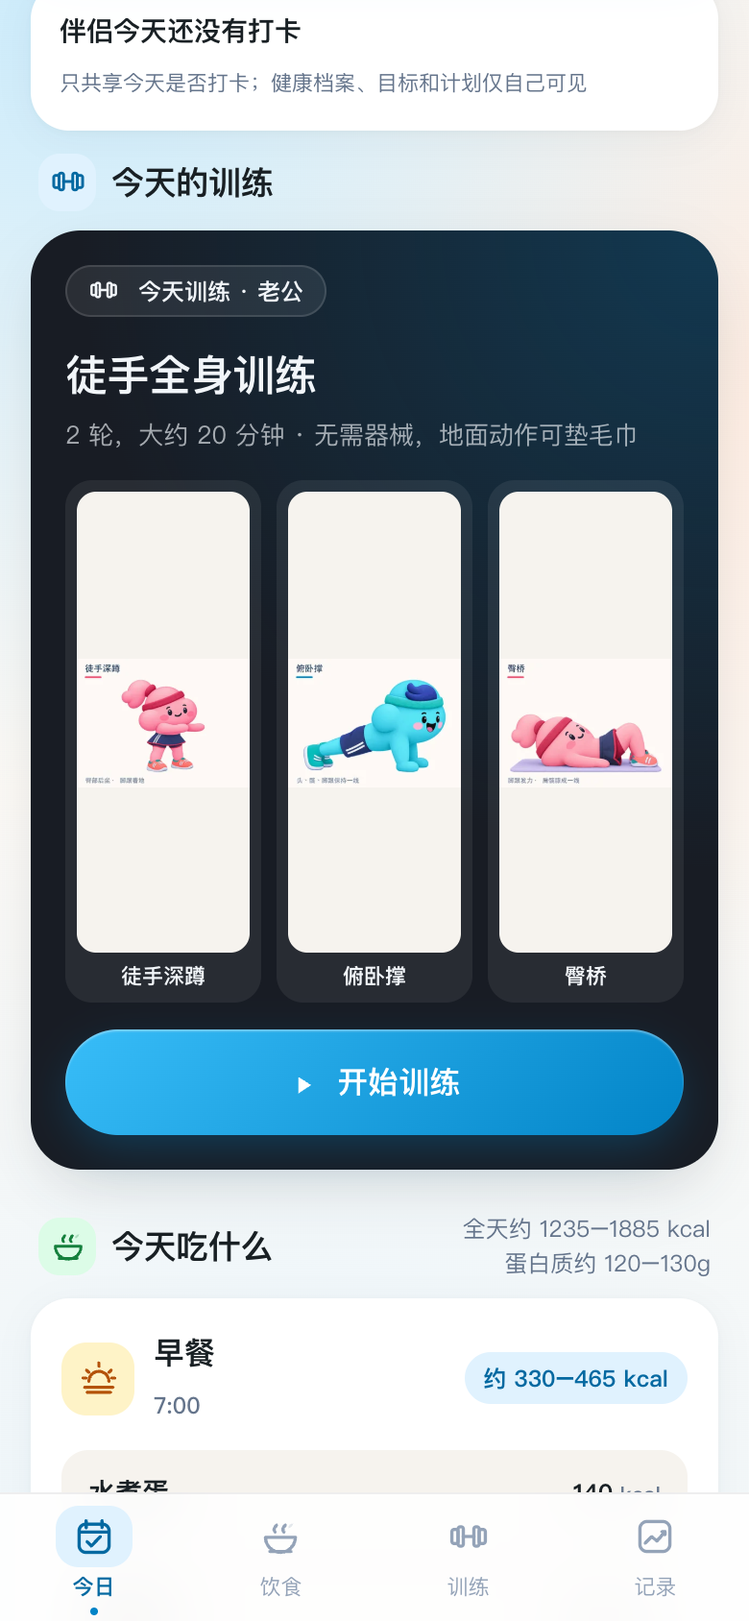
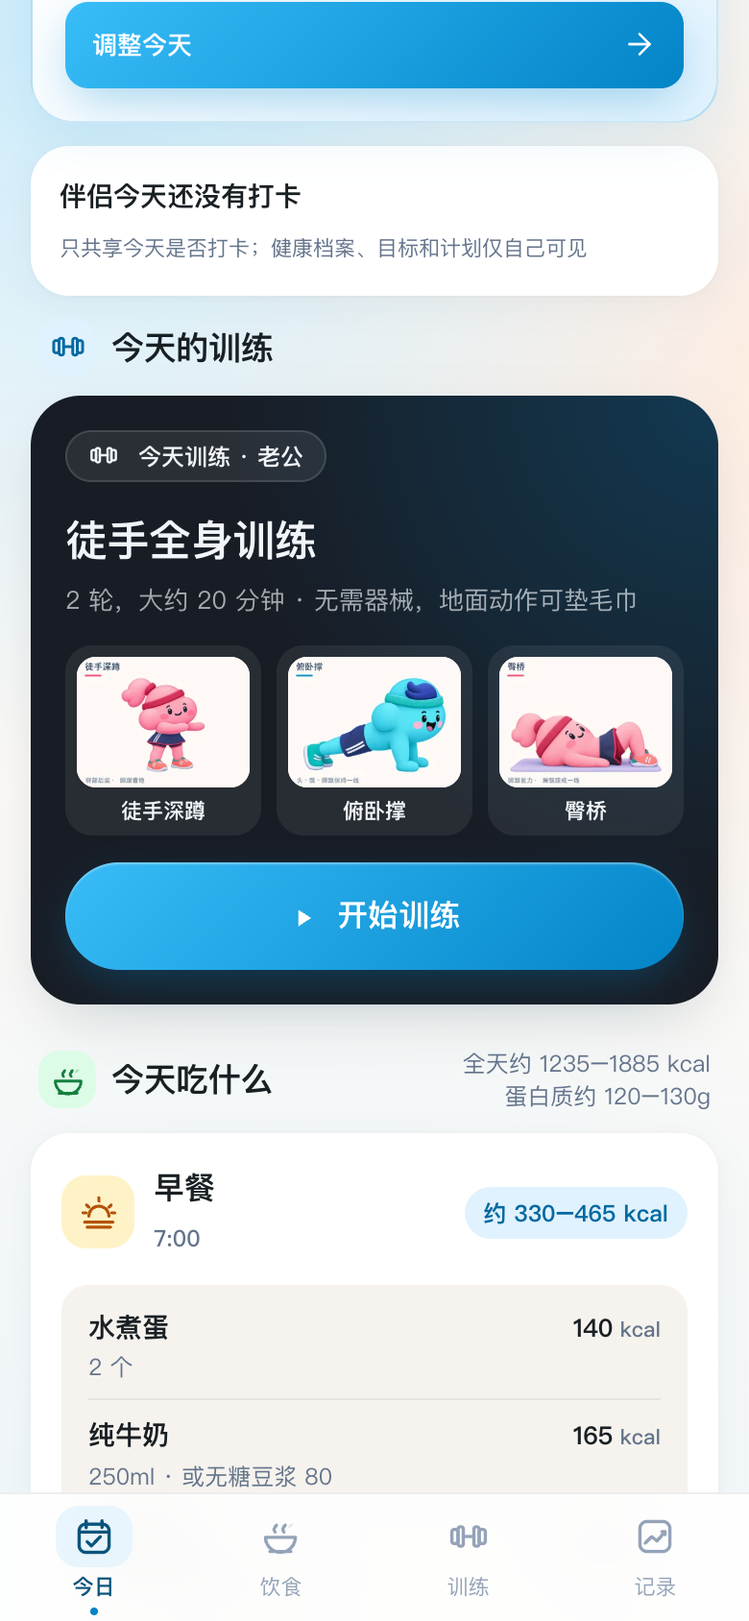
Show entry before home and fix mobile movement preview sizing

diff --git a/index.html b/index.html
@@ -68,6 +68,9 @@ html{height:100%;-webkit-text-size-adjust:100%;text-size-adjust:100%;scroll-padd
 body{margin:0;min-height:100%;background:var(--mesh),var(--bg);background-attachment:fixed;color:var(--ink);
   font-family:"PingFang SC","Hiragino Sans GB","Noto Sans SC","Microsoft YaHei",system-ui,-apple-system,sans-serif;
   font-size:15px;line-height:1.6;-webkit-font-smoothing:antialiased;-webkit-tap-highlight-color:transparent}
+/* Keep the app hidden until the initial entry flow is ready, including before scripts load. */
+body.booting{overflow:hidden}
+body.booting > #appShell,body.booting > #appTabs{visibility:hidden}
 button{font:inherit;color:inherit;cursor:pointer;transition:background-color .2s,color .2s,box-shadow .2s,transform .1s}
 button:active{transform:scale(.97)}
 button:focus-visible,input:focus-visible{outline:3px solid color-mix(in srgb,var(--me) 45%,transparent);outline-offset:2px}
@@ -258,7 +261,8 @@ p{margin:0}
 .obs .moves-chips span em{font-style:normal;color:rgba(241,245,249,.6);margin-left:4px}
 .today-move-preview{display:grid;grid-template-columns:repeat(3,minmax(0,1fr));gap:8px;margin:14px 0}
 .today-move-preview .item{min-width:0;border-radius:14px;background:rgba(255,255,255,.07);padding:6px;text-align:center}
-.today-move-preview img{display:block;width:100%;aspect-ratio:4/3;object-fit:contain;border-radius:10px;background:var(--sunk)}
+.today-move-preview picture{display:block;width:100%;aspect-ratio:4/3;overflow:hidden;border-radius:10px}
+.today-move-preview img{display:block;width:100%;height:auto;aspect-ratio:4/3;object-fit:contain;border-radius:10px;background:var(--sunk)}
 .today-move-preview b{display:block;margin-top:5px;font-size:11px;line-height:1.3;overflow-wrap:anywhere}
 .cta{width:100%;border:0;border-radius:999px;padding:15px;font-size:16px;font-weight:800;color:#fff;background:var(--me-grad);box-shadow:var(--me-glow),inset 0 1px 1px rgba(255,255,255,.35)}
 .obs .cta.done{background:rgba(255,255,255,.1);box-shadow:inset 0 0 0 1px rgba(255,255,255,.15);color:rgba(241,245,249,.8)}
@@ -654,6 +658,7 @@ p{margin:0}
 .rrest .mood{width:88px;height:88px;object-fit:contain;display:block;margin:0 auto 6px}
 .obs .ol li.has-art{grid-template-columns:76px minmax(0,1fr) auto}
 .obs .ol .art{position:relative;width:76px;height:57px;border-radius:10px;overflow:hidden;background:var(--sunk);flex:none}
+.obs .ol .art picture,.desk .art picture{display:block;width:100%;height:100%}
 .obs .ol .art img{width:100%;height:100%;object-fit:contain;display:block}
 .obs .ol .art .n{position:absolute;left:4px;bottom:4px;width:20px;height:20px;font-size:11px;background:rgba(24,28,36,.72);color:#fff}
 .desk .art{width:100%;aspect-ratio:4/3;border-radius:10px;overflow:hidden;background:var(--sunk);margin-bottom:6px}
@@ -671,9 +676,9 @@ p{margin:0}
 @media (prefers-reduced-motion: reduce){ .react{transition:none} }
 @media (prefers-reduced-motion: reduce){ *{transition:none!important} }
 </style>
-<link rel="stylesheet" href="private-coach.css?v=30">
+<link rel="stylesheet" href="private-coach.css?v=31">
 </head>
-<body class="me-hus">
+<body class="me-hus booting">
 <svg class="icon-sprite" xmlns="http://www.w3.org/2000/svg" aria-hidden="true"><defs>
   <symbol id="ic-today" viewBox="0 0 24 24"><rect x="3.5" y="5" width="17" height="16" rx="3.8"/><path d="M7.5 3v4M16.5 3v4M3.5 9.5h17M8 15l2.4 2.4 5.2-5.3"/></symbol>
   <symbol id="ic-diet" viewBox="0 0 24 24"><path d="M3.5 12.5h17a8.5 8.5 0 0 1-17 0ZM6 20.5h12M9 9.5c-1.3-1.5-.2-2.7.8-4M14 9.5c-1.3-1.5-.2-2.7.8-4"/><path d="M16.4 7.3c1.6-.2 2.6-1.2 2.9-2.7-1.7.1-2.7.9-2.9 2.7Z" fill="currentColor" stroke="none" opacity=".25"/></symbol>
@@ -708,7 +713,7 @@ p{margin:0}
   <symbol id="ic-bulb" viewBox="0 0 24 24"><path d="M8.5 17c-.3-1.5-1.1-2.1-2-3.3A6 6 0 1 1 17.5 14c-.9 1.1-1.7 1.6-2 3H8.5ZM9 20h6M10 22h4"/></symbol>
   <symbol id="ic-cloud" viewBox="0 0 24 24"><path d="M6.7 18.5a4.2 4.2 0 0 1-.5-8.3 6.3 6.3 0 0 1 12-.1 4.2 4.2 0 0 1-.7 8.4H6.7Z"/></symbol>
 </defs></svg>
-<div class="wrap">
+<div class="wrap" id="appShell" inert>
   <header class="top">
     <span class="tile" id="pageIcon" aria-hidden="true"></span><div class="title"><h1 id="pageTitle">今日</h1><div class="date" id="dateLabel"></div></div>
     <button class="role" data-open-picker aria-label="切换身份，当前是老公" id="roleBtn"><span class="r hus">老公</span><span class="sw">⇄</span><span class="r wife">老婆</span></button>
@@ -718,7 +723,7 @@ p{margin:0}
   <main id="view"></main>
 </div>
 
-<div class="tabs"><nav>
+<div class="tabs" id="appTabs" inert><nav>
   <button data-tab="today" aria-current="page"><span class="tab-icon"><svg class="ui-icon" viewBox="0 0 24 24" aria-hidden="true"><use href="#ic-today"/></svg></span>今日</button>
   <button data-tab="diet"><span class="tab-icon"><svg class="ui-icon" viewBox="0 0 24 24" aria-hidden="true"><use href="#ic-diet"/></svg></span>饮食</button>
   <button data-tab="train"><span class="tab-icon"><svg class="ui-icon" viewBox="0 0 24 24" aria-hidden="true"><use href="#ic-train"/></svg></span>训练</button>
@@ -729,7 +734,7 @@ p{margin:0}
 <div class="toast" id="toast" role="status"></div>
 <div class="react" id="react" role="status" aria-live="polite"></div>
 <!-- 首次进入 / 切换身份：两个云朵从远处跑近、会合，再弹出角色选择（设计见 UIset/login-motion） -->
-<div class="pick lm-pick" id="pick" role="dialog" aria-modal="true" aria-labelledby="pickTitle"><div class="lm" id="lm" data-phase="choose">
+<div class="pick lm-pick open" id="pick" role="dialog" aria-modal="true" aria-labelledby="pickTitle"><div class="lm splash" id="lm" data-phase="start">
   <div class="lm-grain" aria-hidden="true"></div>
   <div class="lm-top"><button class="lm-skip" data-lm-skip type="button">跳过</button></div>
   <img class="lm-wordmark" src="assets/brand/duofit-wordmark.svg" alt="DuoFit">
@@ -742,7 +747,7 @@ p{margin:0}
     <div class="lm-spark"></div>
   </div>
   <div class="lm-line">每一步，都有人和你一起</div>
-  <section class="lm-choice" id="lmChoice">
+  <section class="lm-choice" id="lmChoice" inert aria-hidden="true">
     <span class="lm-eyebrow">START TOGETHER</span>
     <h2 id="pickTitle">你是谁？</h2>
     <p class="lm-lead">选好角色，健康伙伴会带你用 4 步定好目标和计划。</p>
@@ -804,7 +809,7 @@ p{margin:0}
 </div></div>
 
 <script src="config.js"></script>
-<script src="private-coach.js?v=30"></script>
+<script src="private-coach.js?v=31"></script>
 <script>
 /* Supabase 配置写在同目录的 config.js 里，这个文件以后可以直接整个替换 */
 const SUPABASE_URL = String((window.FATLOSS_CONFIG||{}).SUPABASE_URL||"").trim();
@@ -1372,6 +1377,18 @@ let tab = "today";
 const LS_FAMILY="fatloss.family"; let LS_DIRTY="fatloss.dirty";
 const CLOUD = !!(SUPABASE_URL && SUPABASE_KEY);
 let privateCoach=null, coachReady=Promise.resolve();
+let startupPending=false, startupSyncReason=null;
+function finishStartup(home=false){
+  if(!startupPending)return;
+  startupPending=false;
+  if(home){lastTab=null;render();}
+  document.body.classList.remove("booting");
+  $("#appShell").inert=false;$("#appTabs").inert=false;
+  const reason=startupSyncReason;startupSyncReason=null;
+  if(reason)setTimeout(()=>sync(reason),500);
+  // Worker installation fetches the app shell; keep it out of the entry animation.
+  if("serviceWorker" in navigator && location.protocol==="https:")setTimeout(()=>navigator.serviceWorker.register("sw.js").catch(()=>{}),800);
+}
 let family = (()=>{ try{ return localStorage.getItem(LS_FAMILY)||""; }catch(e){ return ""; } })();
 /* 旧邀请链接曾把口令放在 URL 中；清掉片段，不再自动保存口令。 */
 if(/^#k=/.test(location.hash)) history.replaceState(null,"",location.pathname+location.search);
@@ -1402,6 +1419,7 @@ async function rpc(fn,args){
 
 let syncing=false, syncAgain=false;
 async function sync(reason="change"){
+  if(startupPending){startupSyncReason=reason;return;}
   if(privateCoach)return privateCoach.sync(store,dirty,reason);
   if(!CLOUD || !family) return;
   if(syncing){ syncAgain=true; return; }
@@ -1910,6 +1928,7 @@ function viewRecord(){
 }
 
 function render(){
+  if(startupPending)return;
   renderHeader(); renderSync();
   if(runState) return; // don't touch views mid-workout
   if(tab==="today") viewToday();
@@ -2049,7 +2068,7 @@ document.addEventListener("click",async e=>{
   if(t.hasAttribute("data-code-close")){ codeNextGoal=false; $("#codeDlg").classList.remove("open"); document.body.style.overflow=""; lastTab=null; render(); return; }
   if(t.hasAttribute("data-pick-cancel")){ closePicker(); return; }
   if(t.dataset.lmRole){ lmSelect(t.dataset.lmRole); return; }
-  if(t.hasAttribute("data-lm-skip")){ if($("#lm").classList.contains("splash")){ $("#lm").onclick(); return; } lmClear(); lmPhase("choose"); return; }
+  if(t.hasAttribute("data-lm-skip")){ if($("#lm").classList.contains("splash")){ $("#lm").onclick?.(); return; } lmClear(); lmPhase("choose"); finishStartup(); return; }
   if(t.hasAttribute("data-lm-replay")){ lmPlay(); return; }
   if(t.hasAttribute("data-open-picker")){ if(privateCoach) return; openPicker(true); return; }
   if(t.dataset.dietWeek){dietWeekOffset=Math.min(0,dietWeekOffset+Number(t.dataset.dietWeek));viewDiet();return;}
@@ -2127,9 +2146,9 @@ function lmSelect(role){
 }
 function lmPlay(){
   lmClear(); lmSelect(null); lmPhase("start");
-  if(matchMedia("(prefers-reduced-motion: reduce)").matches){ lmPhase("choose"); return; }
+  if(matchMedia("(prefers-reduced-motion: reduce)").matches){ lmPhase("choose"); finishStartup(); return; }
   lmReady().then(()=>{ if($("#lm").dataset.phase!=="start") return;
-    lmTimers.push(setTimeout(()=>lmPhase("run"),60), setTimeout(()=>lmPhase("meet"),1840), setTimeout(()=>lmPhase("choose"),2550)); });
+    lmTimers.push(setTimeout(()=>lmPhase("run"),60), setTimeout(()=>lmPhase("meet"),1840), setTimeout(()=>{lmPhase("choose");finishStartup();},2550)); });
 }
 /* 每次打开 App：已经选过身份的，播完跑近会合直接进主页（点任意处或"跳过"可提前进入）；首次打开播完弹出选择卡片 */
 function openSplash(after){
@@ -2140,11 +2159,12 @@ function openSplash(after){
   const done=async()=>{ if(!lm.classList.contains("splash")||finishing) return; finishing=true; lmClear(); lm.onclick=null;
     const next=after?await after():null;
     lm.classList.remove("splash");
-    if(next==="choose"){lmSelect(null);lmPhase("choose");return;}
+    if(next==="choose"){lmSelect(null);lmPhase("choose");finishStartup();return;}
+    finishStartup(next!=="error");
     pk.classList.add("leaving"); setTimeout(()=>{ pk.classList.remove("open","leaving"); document.body.style.overflow=""; lmPhase("choose"); },450); };
   lm.onclick=done;
   if(matchMedia("(prefers-reduced-motion: reduce)").matches){ lmTimers.push(setTimeout(done,600)); return; }
-  lmReady().then(()=>{ if(!lm.classList.contains("splash")) return;
+  lmReady().then(()=>{ if(!lm.classList.contains("splash")||finishing) return;
     lmTimers.push(setTimeout(()=>lmPhase("run"),60), setTimeout(()=>lmPhase("meet"),1840), setTimeout(done,2400)); });
 }
 function openPicker(canCancel){
@@ -2363,8 +2383,8 @@ function refreshCalendarDay(){
 }
 
 /* ---------- boot ---------- */
+startupPending=true;
 initTabBarSpace();
-if(!CLOUD) render();
 $("#goalForm").addEventListener("input",goalPreview);
 $("#codeInput").addEventListener("input",()=>{ codeCreating=false; });
 $("#foodText").addEventListener("input",onFoodText);
@@ -2377,7 +2397,7 @@ $("#goalForm").addEventListener("submit",e=>{
   putMeasure({...ex, person:me, date:today, weight:v.start, goal:{height:v.height,age:v.age,start:v.start,target:v.target,pace:v.pace,adj:0,level:old.level||0,cardio:!!old.cardio,mode:null,at:today}});
   menuCache={}; closeGoal(); lastTab=null; render(); react("weigh","目标已保存","今天吃什么已经按你的目标调好了");
 });
-if("serviceWorker" in navigator && location.protocol==="https:") navigator.serviceWorker.register("sw.js").catch(()=>{});
+
 if(CLOUD){
   privateCoach=new window.DuoCoach({
     family:()=>family,
@@ -2416,7 +2436,8 @@ if(CLOUD){
   });
   let savedCoachSession=false;try{savedCoachSession=!!(localStorage.getItem("duofit.auth.v1")||localStorage.getItem("duofit.paired.v1"));}catch(_){}
   if(savedCoachSession)openSplash(async()=>{const status=await coachReady.catch(()=>"error");return status==="error"?"error":privateCoach.active?"home":"choose";});else openPicker(false);
-  coachReady=privateCoach.start();privateCoach.ready=coachReady;
+  // Let the startup screen paint before restoring local data or doing cloud work.
+  coachReady=new Promise(resolve=>requestAnimationFrame(()=>setTimeout(resolve,0))).then(()=>privateCoach.start());privateCoach.ready=coachReady;
   setInterval(()=>{if(document.visibilityState==="visible"){refreshCalendarDay();sync("poll");}},30000);
   document.addEventListener("visibilitychange",()=>{if(document.visibilityState==="visible"){refreshCalendarDay();sync("foreground");}});
   window.addEventListener("online",()=>sync("online"));

diff --git a/tests/startup-browser.js b/tests/startup-browser.js
@@ -1,0 +1,96 @@
+// Exercise the actual entry flow with synthetic local data and a mocked cloud.
+const assert=require('node:assert/strict'),fs=require('node:fs'),path=require('node:path');
+const {chromium}=require(process.env.PLAYWRIGHT_MODULE||'playwright');
+const origin=process.env.DUOFIT_PREVIEW_URL||'http://127.0.0.1:8765';
+const output=path.join(__dirname,'../docs/qa/startup');
+const coachSource=fs.readFileSync(path.join(__dirname,'../private-coach.js'),'utf8');
+(async()=>{
+  fs.mkdirSync(output,{recursive:true});
+  const browser=await chromium.launch({headless:true,channel:process.env.PLAYWRIGHT_BROWSER||'chromium'});
+  const checks=[];
+  try{
+    for(const mode of ['cached','skip','reduced','guest','guest-skip','cold','missing-session','local']){
+      const context=await browser.newContext({viewport:{width:390,height:844},reducedMotion:mode==='reduced'?'reduce':'no-preference'});
+      await context.addInitScript(mode=>{
+        localStorage.clear();window.startupEvents=[];
+        const date=new Date(),day=[date.getFullYear(),String(date.getMonth()+1).padStart(2,'0'),String(date.getDate()).padStart(2,'0')].join('-');
+        const monday=new Date(date);monday.setDate(date.getDate()-((date.getDay()+6)%7));
+        const week=[monday.getFullYear(),String(monday.getMonth()+1).padStart(2,'0'),String(monday.getDate()).padStart(2,'0')].join('-');
+        const profile={version:1,goals:['建立运动习惯'],focus:['全身'],age:32,height:172,weight:76,target:'',health:['暂时没有'],frequency:'每周 3 次',duration:'10 分钟',equipment:[],diet:'',notes:['','',''],confirmedAt:new Date().toISOString(),planStartDate:day};
+        window.fixturePull={member:{person:'hus',family:'fixture-family'},profile,checkins:[],measures:[],weeks:[{weekStart:week,body:{reviewedAt:new Date().toISOString()}}],partnerActivity:[],partnerTrend:[]};
+        if(!['guest','guest-skip','local','missing-session'].includes(mode)){
+          localStorage.setItem('duofit.auth.v1',JSON.stringify({access_token:'fixture',refresh_token:'fixture',expires_at:Date.now()/1000+3600,user:{id:'fixture-user'}}));
+          localStorage.setItem('duofit.paired.v1','1');
+          if(mode!=='cold')localStorage.setItem('duofit.profile.v1.fixture-user',JSON.stringify({member:window.fixturePull.member,profile,weeks:{[week]:{reviewedAt:new Date().toISOString()}}}));
+        }
+        if(mode==='missing-session')localStorage.setItem('duofit.paired.v1','1');
+        if(mode==='local')localStorage.setItem('fatloss.me','hus');
+        document.addEventListener('DOMContentLoaded',()=>{
+          const view=document.querySelector('#view');
+          new MutationObserver(()=>window.startupEvents.push({type:'render',phase:document.querySelector('#lm').dataset.phase,booting:document.body.classList.contains('booting')})).observe(view,{childList:true});
+        });
+      },mode);
+      let releaseConfig;const configReady=new Promise(resolve=>releaseConfig=resolve);
+      let releaseCloud;const cloudReady=new Promise(resolve=>releaseCloud=resolve);
+      const requests=[],errors=[];
+      await context.route('**/*',async route=>{
+        const url=new URL(route.request().url());
+        if(url.origin!==origin){route.abort();return;}
+        if(url.pathname==='/config.js'){
+          await configReady;
+          await route.fulfill({contentType:'application/javascript',body:mode==='local'?'window.FATLOSS_CONFIG={};':'window.FATLOSS_CONFIG={SUPABASE_URL:location.origin,SUPABASE_KEY:"sb_fixture"};'});return;
+        }
+        if(url.pathname==='/private-coach.js'){
+          await route.fulfill({contentType:'application/javascript',body:coachSource+`\nDuoCoach.prototype.signInAnonymous=async function(){this.session={access_token:'fixture',user:{id:'guest-fixture'}};};\nDuoCoach.prototype.rpc=async function(){window.startupEvents.push({type:'cloud',booting:document.body.classList.contains('booting')});return await (await fetch('/fixture-pull')).json();};`});return;
+        }
+        if(url.pathname==='/fixture-pull'){
+          requests.push('cloud');await cloudReady;
+          await route.fulfill({contentType:'application/json',body:JSON.stringify(await page.evaluate(()=>window.fixturePull))});return;
+        }
+        await route.continue();
+      });
+      const page=await context.newPage();page.on('pageerror',e=>errors.push(e.message));
+      page.on('request',r=>requests.push(new URL(r.url()).pathname));
+      await page.goto(origin+'/index.html',{waitUntil:'commit'});
+      await page.locator('#pick').waitFor({state:'visible'});
+      assert.equal(await page.locator('#appShell').isVisible(),false,'no Today flash while scripts are still loading');
+      assert.equal(await page.locator('#appTabs').isVisible(),false);
+      assert.equal(await page.locator('#view').innerHTML(),'');
+      assert.equal(await page.locator('#lm').getAttribute('data-phase'),'start');
+      if(mode==='cached')await page.screenshot({path:path.join(output,'first-paint-mobile.png')});
+      releaseConfig();
+      if(mode!=='local')await page.waitForSelector('#duoCoach',{state:'attached'});
+      if(['skip','guest-skip'].includes(mode))await page.locator('[data-lm-skip]').click();
+      if(mode==='cold'){
+        await page.waitForFunction(()=>window.startupEvents.some(e=>e.type==='cloud'));
+        assert.equal(await page.locator('#view').innerHTML(),'','cold load does not render behind animation');
+        releaseCloud();
+      }
+      if(mode.startsWith('guest')){
+        await page.waitForFunction(()=>document.querySelector('#lm').dataset.phase==='choose');
+        await page.locator('#lmChoice').waitFor({state:'visible'});assert.equal(await page.locator('#view').innerHTML(),'');
+        assert.equal(await page.evaluate(()=>document.body.classList.contains('booting')),false);
+      }else{
+        await page.locator('#pick').waitFor({state:'hidden'});
+        if(mode==='missing-session'){
+          assert(await page.locator('[data-coach="startup-retry"]').isVisible());
+          assert.equal(await page.locator('#view').innerHTML(),'');
+        }else{
+          assert(await page.locator('#view').innerHTML());
+          const events=await page.evaluate(()=>window.startupEvents);
+          assert(!events.some(e=>e.type==='render'&&e.phase==='run'),'no home construction during running animation');
+          if(['cached','skip','reduced'].includes(mode)){
+            assert.equal(events.filter(e=>e.type==='render').length,1,'cached home is constructed once before background sync');
+            assert(!events.some(e=>e.type==='cloud'&&e.booting),'cached cloud sync waits until entry completes');
+          }
+          if(mode==='cached')await page.screenshot({path:path.join(output,'home-mobile.png')});
+        }
+      }
+      releaseCloud();
+      assert.deepEqual(errors,[],mode+' has no browser exceptions');
+      checks.push({mode,initialHomeHidden:true,entryFinished:true,errors});await context.close();
+    }
+    fs.writeFileSync(path.join(output,'browser-results.json'),JSON.stringify(checks,null,2)+'\n');
+    console.log('PASS first paint, cached/cold/local startup, guest selection, skip, reduced motion and recovery error');
+  }finally{await browser.close();}
+})().catch(e=>{console.error(e);process.exitCode=1});

diff --git a/tests/image-browser.js b/tests/image-browser.js
@@ -11,12 +11,16 @@ const output=path.join(__dirname,'../docs/qa/image-loading');
     const page=await context.newPage(), requests=[],errors=[];
     page.on('request',r=>requests.push(new URL(r.url()).pathname));page.on('pageerror',e=>errors.push(e.message));
     const checks=[];
-    for(const view of ['today','train','workout']){
-      await page.goto(origin+'/tests/theme-preview.html?view='+view+'&person=hus&theme=light');
+    for(const view of ['today','today-short','train','workout']){
+      await page.goto(origin+'/tests/theme-preview.html?view='+(view==='today-short'?'today&state=short':view)+'&person=hus&theme=light');
       await page.waitForSelector('body[data-preview-ready="true"]');
       const first=page.locator(view==='workout'?'.rlist .move-art img':'.today-move-preview .move-art img,.obs .move-art img').first();
       if(await first.count())await first.scrollIntoViewIfNeeded();
       const selected=await page.locator('.move-art img').evaluateAll(imgs=>imgs.map(i=>i.currentSrc));
+      if(view.startsWith('today')){
+        const sizes=await page.locator('.today-move-preview img').evaluateAll(imgs=>imgs.map(i=>({width:i.getBoundingClientRect().width,height:i.getBoundingClientRect().height})));
+        assert(sizes.length&&sizes.every(s=>Math.abs(s.height-s.width*.75)<1),'Today previews keep 4:3 ratio on mobile');
+      }
       assert(selected.length,view+' contains movement images');assert(selected.every(url=>url.includes('-small.webp?v=media1')),view+' uses small animated WebP');
       await page.screenshot({path:path.join(output,view+'-mobile.png')});checks.push({view,smallImages:selected.length});
       if(view==='workout'){

diff --git a/tests/sw-cache.js b/tests/sw-cache.js
@@ -32,7 +32,7 @@ const respondImage=(url,method='GET')=>new Promise((resolve,reject)=>{let interc
   failStorage=true;assert.equal((await respondImage('https://example.com/assets/uncached.webp')).body,'new page','full image cache does not hide a successfully downloaded image');failStorage=false;
   assert.equal(await respondImage('https://project.supabase.co/rest/v1/fl_members'),'bypassed');assert.equal(await respondImage(url,'POST'),'bypassed');
   const oldRequest={url:'https://example.com/Fitpro/assets/moves/old.gif'},apiRequest={url:'https://example.com/private-data.json'},already={url};
-  const deleted=[];sandbox.caches.keys=async()=>['duofit-v29','duofit-v30','duofit-images-v1','another-app'];
+  const deleted=[];sandbox.caches.keys=async()=>['duofit-v29','duofit-v31','duofit-images-v1','another-app'];
   const oldCache={keys:async()=>[oldRequest,apiRequest,already],match:async()=>stale};
   sandbox.caches.open=async key=>key==='duofit-images-v1'?imageCache:key==='duofit-v29'?oldCache:cache;sandbox.caches.delete=async key=>{deleted.push(key)};
   await new Promise((resolve,reject)=>handlers.activate({waitUntil:p=>p.then(resolve,reject)}));

diff --git a/private-coach.js b/private-coach.js
@@ -37,7 +37,7 @@ class DuoCoach {
     try{let log=JSON.parse(localStorage.getItem(CONNECTION_LOG)||'[]');if(!Array.isArray(log))log=[];localStorage.setItem(CONNECTION_LOG,JSON.stringify([...log.slice(-39),entry]));}catch{}
     if(error)this.lastConnectionError=entry;
   }
-  connectionDiagnostics(){let entries=[];try{entries=JSON.parse(localStorage.getItem(CONNECTION_LOG)||'[]');}catch{}return 'DuoFit 连接诊断 v30\n'+JSON.stringify(Array.isArray(entries)?entries:[],null,2);}
+  connectionDiagnostics(){let entries=[];try{entries=JSON.parse(localStorage.getItem(CONNECTION_LOG)||'[]');}catch{}return 'DuoFit 连接诊断 v31\n'+JSON.stringify(Array.isArray(entries)?entries:[],null,2);}
   async fetchJSON(path,body,{auth=true,timeoutMs=15000,retries=0}={}){
     const serialized=JSON.stringify(body),owner=auth?this.userId():null;
     for(let attempt=0;;attempt++){

diff --git a/sw.js b/sw.js
@@ -1,11 +1,11 @@
 // DuoFit 离线缓存：页面和脚本优先取新版，断网时才使用本机缓存；图片可先读缓存。
 // 只缓存本站的文件；Supabase 数据同步和 AI 请求（其他域名）一律不经过缓存。
-const CACHE = "duofit-v30";
+const CACHE = "duofit-v31";
 // Media URLs carry their own revision. Keep downloaded images through app-only releases.
 const IMAGE_CACHE = "duofit-images-v1";
 const imageRequests = new Map();
 const CORE = [
-  "./", "index.html", "config.js", "private-coach.js?v=30", "private-coach.css?v=30", "manifest.webmanifest",
+  "./", "index.html", "config.js", "private-coach.js?v=31", "private-coach.css?v=31", "manifest.webmanifest",
 ];
 const isImage = url => /\.(?:avif|webp|png|gif|jpe?g|svg)$/i.test(url.pathname);
 

diff --git a/tests/scenarios.js b/tests/scenarios.js
@@ -4,7 +4,7 @@ const vm = require('node:vm');
 const path = require('node:path');
 const root = path.join(__dirname, '..');
 const html = fs.readFileSync(path.join(root, 'index.html'), 'utf8');assert(fs.readFileSync(path.join(root,'sw.js'),'utf8').includes('notificationclick'),'push click handler');
-assert(html.indexOf('<script src="config.js"></script>') < html.indexOf('<script src="private-coach.js?v=30"></script>'), 'config loads before coaching');
+assert(html.indexOf('<script src="config.js"></script>') < html.indexOf('<script src="private-coach.js?v=31"></script>'), 'config loads before coaching');
 const inline = html.slice(html.lastIndexOf('<script>') + 8, html.lastIndexOf('</script>'));
 const memory = new Map();
 const elements = new Map();

diff --git a/tests/theme-preview.html b/tests/theme-preview.html
@@ -43,6 +43,9 @@
   `);
   document.body.appendChild(script);
   const app = window.themePreviewApp;
+  document.querySelector("#pick").classList.remove("open");
+  document.querySelector("#lm").classList.remove("splash");
+  document.querySelector("#appShell").inert=false;document.querySelector("#appTabs").inert=false;
   app.initTabBarSpace();
   const date = app.ymd(new Date());
   const previous = app.ymd(new Date(Date.now() - 7*864e5));

diff --git a/CLAUDE.md b/CLAUDE.md
@@ -9,7 +9,7 @@
 
 - 登录刷新共用同一个进行中的请求；支持 Web Locks 的浏览器在多个页面间也串行刷新，并读取本机最新 token。只有明确的会话失效错误清除登录。普通 400/403、网络错误、限流、服务端失败保留身份；预刷新失败时仍可使用尚未过期、未被服务端拒绝的 access token。
 - 私人读取和可重复的保存请求有 15 秒期限，网络失败、超时、限流及部分服务端错误最多重试 2 次，之后在前台自动退避重连。一次性恢复 RPC 不自动重发或强制中止。启动失败、切回前台、网络恢复使用同一连接入口；相同档案拉取合并，空闲时每 90 秒拉取一次，新增打卡仍立即上传。
-- 已有本机完整档案时，启动先进入自己的记录页面，再后台连接和同步；云端重试不会拖住入场动画。成功连接后才检查每周复核提醒。
+- 已有本机完整档案时，启动先播放入场动画，再用缓存进入自己的记录页面，随后后台连接和同步；云端重试不会拖住入场动画。成功连接后才检查每周复核提醒。
 - 上传用 JSON 快照，只有当前本机记录与已上传快照完全相同时才清除待上传标记。忙碌期间的修改排入下一次同步。后台拉取不覆盖正在编辑或刚确认的计划。
 - 错误页与私人设置可复制连接诊断，仅包含接口路径、时间、耗时、重试次数、状态及规范错误码，不含身份凭据、用户 ID、家庭口令或健康内容。详见 `docs/qa/cloud-connection/README.md`，故障回归 `tests/cloud-connection.js`；发布缓存版本 `duofit-v28`。
 
@@ -158,4 +158,6 @@
 
 - 2026-10-09 AI 热量估算：全量文字块 + 平衡 JSON 提取/校验；中转输出 4096/6144 tokens，截断或格式异常修复一次；未识别 kcal 为 null 且不缓存。私人估算使用共享登录刷新和连接诊断，不依赖 dirty 上传；客户端 90 秒，无消费请求自动网络重试。部分热量不判断整餐计划；旧请求不覆盖修改原文/另一餐/另一身份。版本头 `2026-10-09-meal-format`，回归 `tests/meal-function.mjs`、`tests/meal-ui.js`。
 
-- 2026-10-09 图片性能：应用缓存 v30，独立 `duofit-images-v1` 跨应用版本保存图片，命中不联网，冷请求去重；激活迁移旧 DuoFit 缓存中的图片后只删除旧应用缓存。素材改动需同步递增 URL 的 `media1`/`logo3`；只改应用时不要改图片缓存名。CORE 仅含应用文件，图片按需保存。验证与尺寸统计见 `docs/qa/image-loading/README.md`、`tests/sw-cache.js`、`tests/image-browser.js`。
+- 2026-10-09 图片性能：应用缓存 v31，独立 `duofit-images-v1` 跨应用版本保存图片，命中不联网，冷请求去重；激活迁移旧 DuoFit 缓存中的图片后只删除旧应用缓存。素材改动需同步递增 URL 的 `media1`/`logo3`；只改应用时不要改图片缓存名。CORE 仅含应用文件，图片按需保存。验证与尺寸统计见 `docs/qa/image-loading/README.md`、`tests/sw-cache.js`、`tests/image-browser.js`。
+
+- 2026-10-09 启动顺序：HTML 默认显示入场层，主页面与导航在脚本加载前隐藏并 inert；启动期间合并首页渲染与同步请求，动画结束后只构建一次缓存首页，随后同步与注册 SW。避免首页先闪出、动画中重复构建和安装下载竞争。缩略图 picture 与 img 显式随宽度保持 4:3，覆盖 Today 的普通与 10 分钟计划；验证见 `tests/startup-browser.js`、`docs/qa/startup/README.md`。

diff --git a/docs/qa/startup/README.md b/docs/qa/startup/README.md
@@ -1,0 +1,25 @@
+# Startup order and mobile movement previews
+
+2026-10-09, app shell v31. Synthetic local fixtures only; no production accounts or backend requests.
+
+## Causes and fixes
+
+- The initial HTML showed the Today header/navigation while the entry overlay was hidden. Scripts then opened the overlay, producing a visible reversal. The overlay is now open in HTML; the app stays hidden and inert until entry completes.
+- Cached profile restoration and background cloud pulls could rebuild the home view during the animation. Startup now suppresses home renders and coalesces sync requests, builds the cached home once at exit, then starts background sync. Service worker registration also waits until entry finishes to avoid installation downloads competing with entry.
+- Movement images had a `height="240"` attribute while CSS only reduced their width. Explicit proportional sizing for the image/picture fixes the tall empty boxes; list and desk picture wrappers also fill their existing containers.
+- Clicking Skip could invoke the splash completion handler twice through event bubbling. The second invocation now safely checks whether the handler still exists, and late image decoding cannot restart a finishing splash.
+
+## Verification
+
+Serve the repository on localhost:8765. Run with Playwright and installed Chrome:
+
+```sh
+PLAYWRIGHT_BROWSER=chrome PLAYWRIGHT_MODULE=/path/to/playwright node tests/startup-browser.js
+PLAYWRIGHT_BROWSER=chrome PLAYWRIGHT_MODULE=/path/to/playwright node tests/image-browser.js
+```
+
+`startup-browser.js` deliberately holds config loading to inspect the actual first paint, then checks cached and cold saved sessions, first-time role selection, Skip, reduced motion, missing-session recovery, and local mode. It checks that cached home is built once before the background response and is not constructed during the running animation. Screenshots and results are in this directory.
+
+`image-browser.js` checks Today image height against width × 3/4 for both the ordinary and 10-minute plan, in addition to WebP selection, next-movement warming, small-screen fit and offline image access. Updated mobile screenshots are in `../image-loading/`, including `today-short-mobile.png` matching the reported layout.
+
+Other checks: `scenarios.js`, `default-plan.js`, `cloud-connection.js`, `meal-ui.js`, and `sw-cache.js` pass. No real iPhone performance measurement is claimed; cold network downloads and device-specific rendering still need observation on the user's device.
